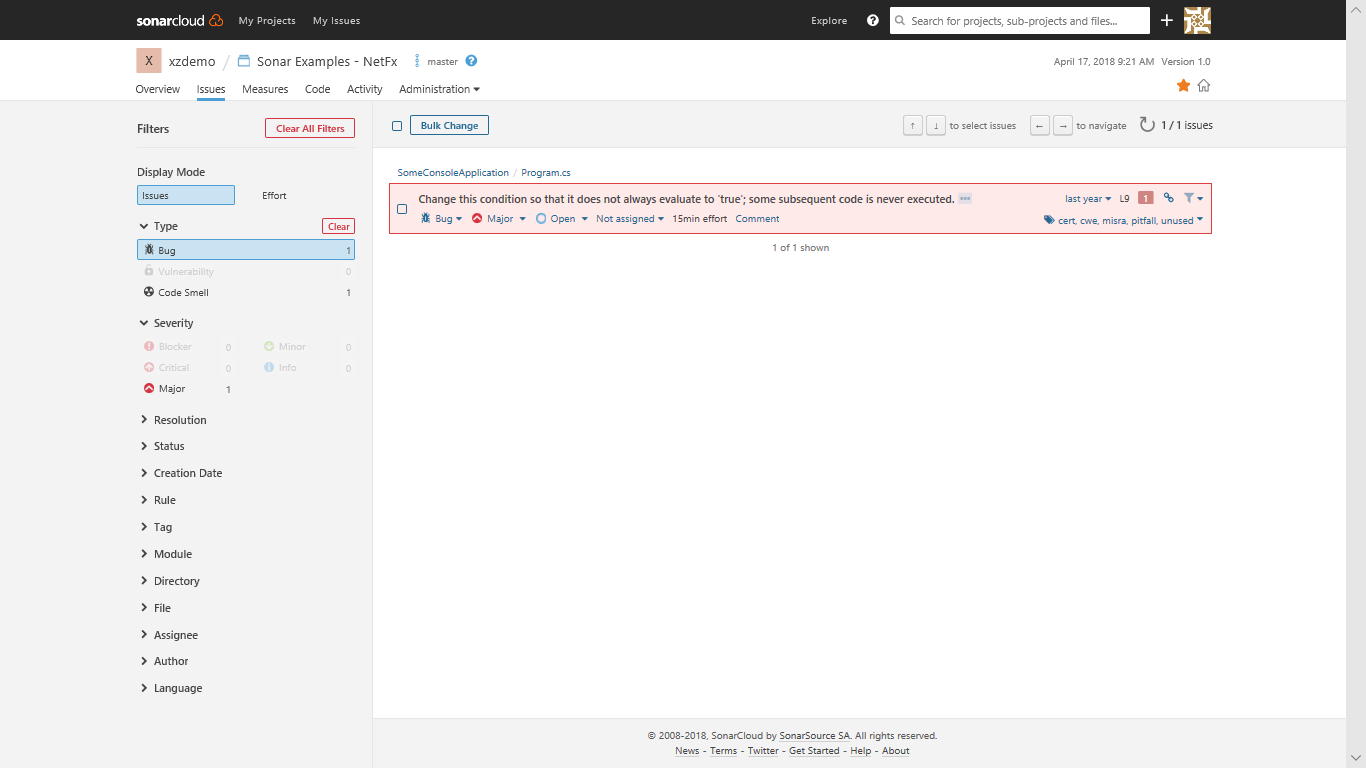
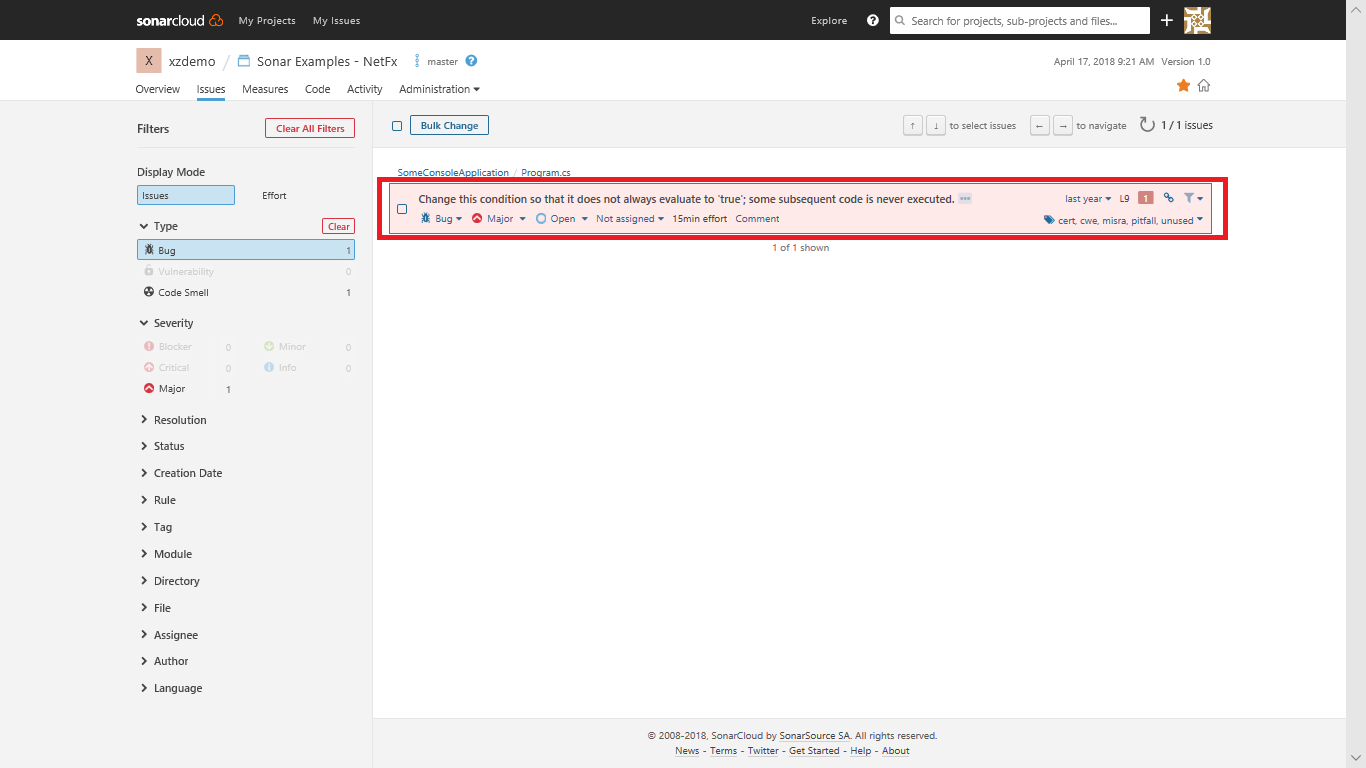
Updated sonarcloud ex2 readme

Changed region(s): [[0.2767, 0.25, 0.9224, 0.3125], [0.2767, 0.2188, 0.8917, 0.25]]

diff --git a/labs/vstsextend/sonarcloud/readme.md b/labs/vstsextend/sonarcloud/readme.md
@@ -179,11 +179,9 @@ We will set up a new build definition that integrates with SonarQube to analyze 
 
 ## Exercise 2: Analyze SonarQube Reports
 
-Open the **Sonar Examples** project in the SonarQube Dashboard. The dashboard shows a summary of the quality of the project - the number of issues found, the code coverage, and any code duplication. We have just analysed the project for the first time so there is no historical information. However, as we integrated the analysis into a CI build, new analysis results will be continue to be pushed to SonarQube as the code changes, and trend lines will appear on the dashboard.
+Open the **Sonar Examples** project in the SonarQube Dashboard.  Under ***Bugs and Vulnerabilities***, we can see a bug has been caught.
 
-Under ***Bugs and Vulnerabilities***, we can see a bug has been caught.
-
-  ![sonar_portal](images/ex2/sonar_portal.png)
+  ![sonar_portal](images/ex2/sonar_portal_bug.png)
 
   The page has other metrics such as ***Code Smells***, ***Coverage***, ***Duplications*** and ***Size***. The following table briefly explains each of these terms.
 
@@ -200,11 +198,13 @@ Under ***Bugs and Vulnerabilities***, we can see a bug has been caught.
 
 1. Click on the **Bugs** count to see the details of the bug.
 
-   ![sonar_portal](images/ex2/sonar_portal.png)
+   ![sonar_portal](images/ex2/sonar_portal_bug.png)
+
+1. Click on the bug to navigate to the code
 
    ![bug_details](images/ex2/bug_details.png)
 
-1. You will see the error in line number 9 of *Program.cs** file as **Change this condition so that it does not always evaluate to 'true'; some subsequent code is never executed.**.
+1. You will see the error in line number 9 of **Program.cs** file as **Change this condition so that it does not always evaluate to 'true'; some subsequent code is never executed.**.
 
    ![bug_details_2](images/ex2/bug_details_2.png)
 
@@ -229,7 +229,7 @@ Under ***Bugs and Vulnerabilities***, we can see a bug has been caught.
    - select **Size** in the **Sort by:** drop-down
    - sort the results in descending order
 
-   ![sc_projects_all](images/sc_projects_all_filtered.png)
+   ![sc_projects_all_filtered](images/sc_projects_all_filtered.png)
 
    We have seen how to browse the project on SonarCloud to look at issues that already exist in the code base. Next, we will set up integration with pull requests so that issues can be identified and corrected before they are merged.
 
